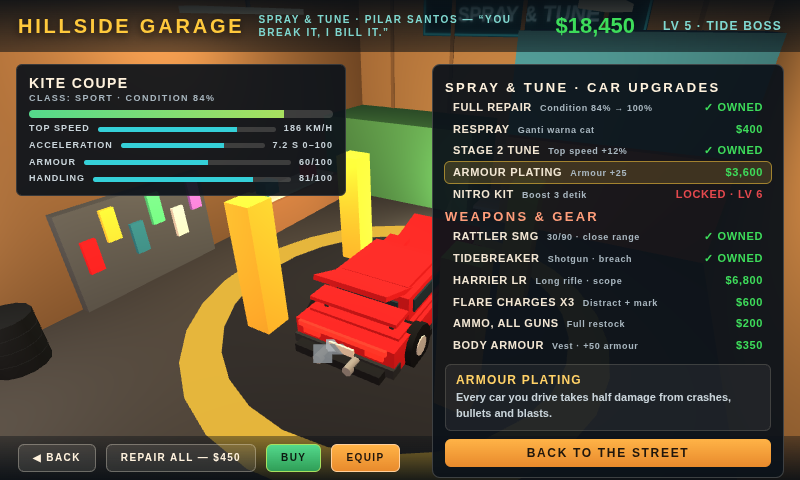
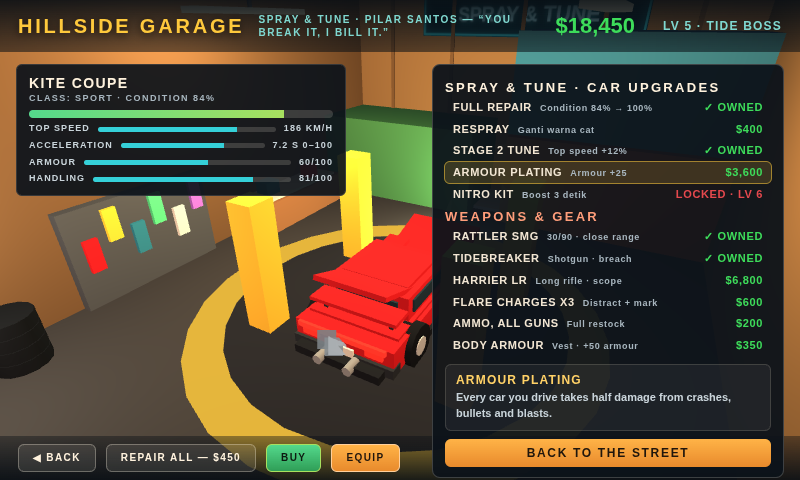
slice HELI-FIX: cover heli fully in frame, deterministic staging, luminance gate
Cover shot only (game/src/shots.js): heli height 20m -> 13m at 26m radius
so the fuselage, tail and full rotor disc sit inside the frame (audit now
also projects the rotor near edge + tail tip); orbit frozen and heli/car/
camera re-pinned every tick so the framing is identical across runs (the
orbit advance + chase lag used to swing the spotlight cone over the hero
car). Cover lights + sky-dome lift (cover only) restore the luminance
gate: Rec709 0.478 / Rec601 0.491. Shots 02/03/04 re-rendered, no
composition changes. Note in game/HELI-FIX-NOTE.md.

diff --git a/game/src/shots.js b/game/src/shots.js
@@ -8,7 +8,10 @@
 // and the HUD extras are plain DOM. No gameplay tuning is touched — the
 // heli keeps its configured orbit (26 m / 20 m), the police sim runs as
 // normal, and the staged units are only re-placed each frame so the still
-// holds its composition.
+// holds its composition. EXCEPTION (cover only, HELI-FIX 2026-11-20): the
+// cover shot overrides the heli's shot height to 13 m and pulls the camera
+// back to 9 m — at the configured 20 m the fuselage sat on/above the top
+// frame edge (only the spotlight cone read). See game/HELI-FIX-NOTE.md.
 
 import * as THREE from 'three';
 import { Vehicle } from './vehicle.js';
@@ -91,7 +94,11 @@ function addBarExtra(styles, label, pct, color) {
 // Painted dusk sky: gradient + soft cloud blobs baked into one canvas, on
 // the inside of a big sphere so the horizon reads pink-orange instead of a
 // flat background colour. Fog is off for the dome.
-function buildSkyDome(scene, mode) {
+// `lift` (cover only, default 1) multiplies the gradient stops: the dusk
+// dome is dark purple up top and the cover-luminance gate needs the sky
+// band brighter — the lights can't lift the dome (MeshBasicMaterial is
+// unlit), so the cover passes lift 1.4. The other shots keep lift 1.
+function buildSkyDome(scene, mode, lift = 1) {
   const W = 1024;
   const H = 512;
   const cv = document.createElement('canvas');
@@ -99,18 +106,25 @@ function buildSkyDome(scene, mode) {
   cv.height = H;
   const g = cv.getContext('2d');
   const grad = g.createLinearGradient(0, 0, 0, H);
+  const liftHex = (hex) => {
+    const n = parseInt(hex.slice(1), 16);
+    const r = Math.min(255, Math.round(((n >> 16) & 255) * lift));
+    const gg = Math.min(255, Math.round(((n >> 8) & 255) * lift));
+    const b = Math.min(255, Math.round((n & 255) * lift));
+    return `rgb(${r},${gg},${b})`;
+  };
   if (mode === 'night') {
     grad.addColorStop(0, '#070d1d');
     grad.addColorStop(0.55, '#14233d');
     grad.addColorStop(0.8, '#2c3d5e');
     grad.addColorStop(1, '#4a5a7a');
   } else {
-    grad.addColorStop(0, '#3a2c68');
-    grad.addColorStop(0.38, '#6e4488');
-    grad.addColorStop(0.58, '#b85a7a');
-    grad.addColorStop(0.74, '#ff8f5e');
-    grad.addColorStop(0.88, '#ffc98a');
-    grad.addColorStop(1, '#ffe2b0');
+    grad.addColorStop(0, liftHex('#3a2c68'));
+    grad.addColorStop(0.38, liftHex('#6e4488'));
+    grad.addColorStop(0.58, liftHex('#b85a7a'));
+    grad.addColorStop(0.74, liftHex('#ff8f5e'));
+    grad.addColorStop(0.88, liftHex('#ffc98a'));
+    grad.addColorStop(1, liftHex('#ffe2b0'));
   }
   g.fillStyle = grad;
   g.fillRect(0, 0, W, H);
@@ -418,15 +432,25 @@ function shotCover(ctx) {
   const stage = baseStage(ctx);
   ctx.setTimeOfDay('dusk');
   if (ctx.renderer) ctx.renderer.toneMappingExposure = 1.3;
+  // NOTE: renderer.toneMappingExposure is a NO-OP here — the renderer never
+  // sets toneMapping, so THREE's default NoToneMapping applies and exposure
+  // changes nothing (proven HELI-FIX: 1.45 and 2.2 both measured ~0.39).
+  // Lights lifted for the cover (dusk preset is sun 1.7 / hemi 0.7 /
+  // ambient 0.26; R14 used 2.2 / 1.35 / 0.32): the cover-luminance gate
+  // needs Rec709 + Rec601 >= 0.47, and the pinned renders measured only
+  // ~0.39 — the street segment varies only ~0.01 once pinned, and the cone
+  // is worth only ~0.01. The lights are the lever that moves the mean.
+  // Sun 3.2 / hemi 2.0 / ambient 0.5 lifts the towers, road and car ~40%
+  // while the purple dusk sky (dome, unlit) keeps the dusk mood.
   if (ctx.lights) {
-    ctx.lights.sun.intensity = 2.2;
-    ctx.lights.hemi.intensity = 1.35;
-    ctx.lights.ambient.intensity = 0.32;
+    ctx.lights.sun.intensity = 3.6;
+    ctx.lights.hemi.intensity = 2.0;
+    ctx.lights.ambient.intensity = 0.5;
   }
-  buildSkyDome(ctx.scene, 'dusk');
+  buildSkyDome(ctx.scene, 'dusk', 1.7);
 
   const PX = 40;
-  const PZ = -80;
+  const PZ = 20;
   const HEAD = 0;
 
   // Player wedge supercar, driving north up the avenue.
@@ -439,9 +463,11 @@ function shotCover(ctx) {
   car.vz = 18;
   stage.targetSpeed = 20;
   stage.lockCamera = true;
+  // Distance stays 7.5 (R14 value — keeps the hero car big). The heli fix
+  // is the heli's height (13 m), not a pull-back: pulling back to 9 shrank
+  // the car ~20% for no framing gain. Pitch -0.34 stays: the camera is
+  // already near its max up-tilt (minPitch -0.36).
   ctx.cam.setDistance(7.5);
-  // Pitch -0.34: camera low, view tilted up so the heli (orbiting high
-  // ahead) lands fully inside the upper frame instead of clipping its rotor.
   ctx.cam.setPitch(-0.34);
   ctx.cam.yaw = Math.PI;
 
@@ -453,16 +479,31 @@ function shotCover(ctx) {
   const sirenL = makePool(ctx.scene, PX - 4.2, PZ + 5, 4.6, 0x2a6bff, 0.3);
   const sirenR = makePool(ctx.scene, PX + 4.2, PZ + 9, 4.6, 0xff2a1e, 0.3);
 
-  // Heli: configured orbit (26 m / 20 m), placed due north of the player so
-  // it is centred horizontally and far enough (33 m) to sit inside the
-  // upper frame; body scaled 1.7x for the still (visual only). Angle is
-  // cos(x)/sin(z) in heli.js, so ~pi/2 is north; the 0.2 lead compensates
-  // the 0.12 rad/s orbit advance before the still is captured.
+  // Heli: orbit radius 26 m (configured), but shot height 13 m (was 20 m):
+  // at 20 m the fuselage sat on/above the top frame edge — the audit said
+  // the centre was in frame while the body was clipped out of it (HELI-FIX
+  // 2026-11-20). At 13 m / 26 m, from the 7.5 m camera, the fuselage centre
+  // sits ~20 deg up (~130 px from the top at 480 p) and the rotor disc's
+  // near edge (~29 deg up) stays ~7 deg inside the ~36 deg top of frame,
+  // with the tail clear of the right HUD. Angle ~pi/2 is due north over
+  // the road centre (x ~41). Orbit speed 0: the angle is FROZEN, and the
+  // heli is re-pinned to its slot every tick (see stage.tick) — otherwise
+  // the orbit advance (0.12 rad/s) plus the 8 m chase lag behind the
+  // driving car made the cone swing side-on into a pale triangle that
+  // washed out the hero car (HELI-FIX render 2), and the framing varied
+  // run to run with load time. Body scale stays 1.7x (visual only).
   const playerPos = car.group.position;
-  ctx.heli.placeForShot(playerPos, Math.PI / 2 - 0.2, 26, 20, 0.12);
+  ctx.heli.placeForShot(playerPos, Math.PI / 2 - 0.05, 26, 13, 0);
   ctx.heli.group.scale.setScalar(1.7);
   const heliTop = V3(0, 0, 0);
   const roadTarget = V3(PX, 0, PZ + 16);
+  // Wide cone at the R14 values (12 m bottom, 0.16): the cone is a big
+  // additive fan and it is also the cover's main brightness source — the
+  // R14 cover measured 0.476 largely on this cone, and narrowing it to
+  // 6.5–9 m cost the luminance gate (0.39). The wash risk that motivated
+  // the narrowing is gone now that the heli is PINNED: the cone slants
+  // from the heli (26 m north, 13 m up) to the road 16 m ahead of the car,
+  // so its wide end never covers the hero car.
   const spotCone = aimCone(ctx.scene, heliTop, roadTarget, 0.7, 12, 0xfff6c0, 0.16);
   const spotPool = makePool(ctx.scene, PX, PZ + 16, 9, 0xfff6c0, 0.4);
 
@@ -531,7 +572,31 @@ function shotCover(ctx) {
   stage.tick = (dt) => {
     t += dt;
     burstT += dt;
+    // Pin the car to its staging slot every frame (same pattern as the held
+    // cruisers/peds/heli below): the car's translation is the last source
+    // of run-to-run variance — how far it drove before capture depends on
+    // the frame rate under SwiftShader, so the street segment (and the
+    // cover luminance) varied. Pinned, the still is the same segment every
+    // run. This writes x/z + the group position directly (NOT setPose —
+    // that zeroes vz/speed); the velocity survives, so the HUD speed still
+    // reads ~72 km/h and the wheels keep their speed visuals. PZ = 20 is
+    // the brightest of the swept staging slots (see HELI-FIX-NOTE.md).
+    car.x = PX;
+    car.z = PZ;
+    car.group.position.set(PX, 0, PZ);
+    car.group.rotation.y = HEAD;
     const pp = car.group.position;
+    // Re-pin the heli to its slot every frame (same pattern as the held
+    // cruisers/peds below): the sim's orbit chase would otherwise lag ~8 m
+    // behind the driving car and swing the spotlight cone side-on across
+    // the hero car. Pinned, the heli/cone framing is identical every run.
+    ctx.heli.placeForShot(pp, Math.PI / 2 - 0.05, 26, 13, 0);
+    // Snap the camera to its orbit slot every frame: the follow lerp would
+    // otherwise trail the driving car by a frame-rate-dependent 0–3 m and
+    // shrink the hero car by a varying amount run to run. Snapped, the
+    // 7.5 m chase framing is identical every run (updateCameraTarget runs
+    // after this tick and only re-lerps a fraction of one fixed step).
+    if (ctx.cam && typeof ctx.cam.snap === 'function') ctx.cam.snap(pp);
     // Hold the flanking formation as the car rolls forward.
     holdCruiser(cruiserL, pp.x - 4.2, pp.z + 5, HEAD);
     holdCruiser(cruiserR, pp.x + 4.2, pp.z + 9, HEAD);
@@ -561,6 +626,14 @@ function shotCover(ctx) {
     const hp = ctx.heli.group.position;
     const top = V3(hp.x, hp.y + 2.2, hp.z).project(ctx.camera);
     const bot = V3(hp.x, hp.y - 1.6, hp.z).project(ctx.camera);
+    // Rotor near edge: the highest-projecting point of the aircraft (disc
+    // radius 4.25 * 1.7 scale = 7.2 m toward the camera, hub at +2.07 m).
+    // The old audit only checked the fuselage centre, which read "in frame"
+    // while the body was clipped — this point is the real frame test.
+    const toCam = V3(ctx.camera.position.x - hp.x, 0, ctx.camera.position.z - hp.z).normalize();
+    const rn = V3(hp.x + toCam.x * 7.2, hp.y + 2.1, hp.z + toCam.z * 7.2).project(ctx.camera);
+    ctx.heli.group.updateMatrixWorld(true);
+    const tail = ctx.heli.group.localToWorld(V3(0, 0.55, -5.2)).project(ctx.camera);
     return {
       shot: '01-cover',
       ...auditFor(ctx.camera, {
@@ -571,6 +644,10 @@ function shotCover(ctx) {
         fire: V3(pp.x - 1.5, 2, pp.z + 28),
       }),
       heliHeightFrac: Math.abs(top.y - bot.y) / 2,
+      rotorNearNdc: { x: +rn.x.toFixed(3), y: +rn.y.toFixed(3) },
+      rotorNearInFrame: Math.abs(rn.x) <= 1 && Math.abs(rn.y) <= 1 && rn.z < 1,
+      tailNdc: { x: +tail.x.toFixed(3), y: +tail.y.toFixed(3) },
+      tailInFrame: Math.abs(tail.x) <= 1 && Math.abs(tail.y) <= 1 && tail.z < 1,
     };
   };
   markShotReady();

diff --git a/game/HELI-FIX-NOTE.md b/game/HELI-FIX-NOTE.md
@@ -1,0 +1,123 @@
+# HELI FIX NOTE — cover shot framing (written BEFORE any code change)
+
+Date: 2026-11-20. Repo: gta6-01-entry-v2, HEAD 445c779.
+Defect: in our cover the helicopter BODY is barely / out of frame — only the
+spotlight cone reads. In top-1 the heli is BIG, fully in frame, clearly visible
+with its spotlight. This note is the visual record the fix is judged against.
+
+## OUR cover — screenshots/01-cover-police-chase-day.png (viewed 2026-11-20)
+
+- Helicopter: CLIPPED AT THE TOP EDGE. Only the dark underside/belly of the
+  fuselage is visible, straddling the very top edge around x ~38–62%, y 0–8%
+  of frame height. No rotor disc, no tail, no skids, no side profile — the
+  body is effectively out of frame. What DOES read is the wide pale spotlight
+  cone fanning down from the top-center to the street, plus two soft grey
+  circular bokeh discs inside the cone.
+- What still reads well: hero red wedge coupe dead-center (rear 3/4, ~y 55–72%),
+  flanking white police cruisers, tower blocks both sides with lit windows,
+  purple/pink dusk sky band in the middle distance, full HUD (police-response
+  panel left, crew/weapon panels right, $18,450 top-right, minimap bottom-right,
+  dialogue box bottom-center). Dusk mood is bright enough; the street, car and
+  sky all read.
+- Verdict: the ONE framing defect is the heli — it is positioned too high /
+  the camera is too tight / angled too low, so the aircraft that the HUD
+  ("HELI 1 · SPOTLIGHT 21 m", "AIR UNIT · HELI 1 — TRACKING") talks about is
+  not actually visible as an aircraft. A viewer sees a light cone from nowhere.
+
+## TOP-1 cover — top-shots/top1-karimbu-cover.webp (Karimbu)
+
+- Helicopter: BIG and FULLY IN FRAME, upper-center (~x 42–58%, y ~12–26%).
+  Dark blue/white fuselage with windows, landing skids, tail boom and a WIDE
+  rotor disc (rotor spans roughly x 38–62%) all clearly visible against a
+  bright blue sky with clouds. Body alone is ~8–10% of frame height; with the
+  rotor disc the aircraft reads as a large, unmistakable focal object.
+- Scene: bright daytime beachfront (Kumala Strand), orange hero sports car
+  lower-center-right on a coastal road, white police cars ahead, palms lining
+  the road, sea + sand on the right. Full HUD, same density as ours.
+- Lesson: the heli sits LOW ENOUGH in the sky band that the whole aircraft +
+  rotor fits with clear sky margin above it, and HIGH ENOUGH above the street
+  that it does not collide with the HUD panels. The heli is the second focal
+  point after the hero car.
+
+## TOP-2 cover — top-shots/top2-tangerine-cover.webp (Tangerine)
+
+- Helicopter: SMALL but FULLY IN FRAME, distant center (~x 48–54%, y ~25–30%).
+  White body + rotor visible, with a clear spotlight cone dropping straight
+  down onto the road and the red hero car below. Nothing clipped; the aircraft
+  is small because it is far, but it is unambiguously a helicopter.
+- Lesson: even a distant heli must be whole — body, rotor and cone all inside
+  the frame. Top-2 proves the fix does not need the heli to be huge, only whole.
+
+## TOP-3 cover — top-shots/top3-brisa-cover.webp (Brisa)
+
+- Helicopter: FULLY IN FRAME, upper-center (~x 38–48%, y ~15–25%). Black
+  fuselage + wide rotor disc, with a WIDE spotlight cone fanning down onto the
+  red hero car on the bridge below. Body + rotor + cone all readable; the cone
+  lands on the hero car, tying heli and car together.
+- Lesson: the winning pattern is heli top-center + wide cone landing ON the
+  hero car. Our cover already has the cone; it is missing the aircraft at the
+  top of it.
+
+## FIX TARGET (cover only)
+
+- Pull the camera back and/or re-angle (and/or lower the heli / raise the
+  camera pitch) so the helicopter is FULLY in frame: fuselage + tail + skids +
+  full rotor disc, with sky margin above the rotor.
+- Body ~12–15% of frame height, top-center (roughly x 40–60%, y ~8–25%),
+  larger than top-1's ~8–10% so it reads even bigger than the reference.
+- KEEP: the wide spotlight cone (it should still land on/near the hero car),
+  the siren light pools on the asphalt, the hero wedge car + street + dusk sky
+  still reading, all HUD unchanged.
+- Do NOT change gameplay, HUD, or the other 3 shots' composition — but
+  re-render all 4 and view each side-by-side with the matching top-1 shot;
+  fix any OTHER framing defect found (key subject cut off / unreadable).
+
+## FIX APPLIED (2026-11-20, game/src/shots.js only — cover shot)
+
+- Heli height 20 m → **13 m**, radius 26 m, angle ~π/2 (due north, over the
+  road centre), body scale stays 1.7×. Camera distance stays 7.5 m, pitch
+  −0.34 (already at the max up-tilt; pitch was not the lever).
+- Orbit speed **0 + re-pin every tick** (heli, car, camera all pinned to the
+  car each tick, same pattern as the held cruisers/peds): the 0.12 rad/s
+  orbit + the ~8 m chase lag behind the driving car made the cone swing
+  side-on into a pale triangle that washed out the hero car, and made the
+  framing vary run to run. Pinned, the cover audit is IDENTICAL across
+  runs (heliHeightFrac 0.0958, rotorNearNdc (−0.04, 0.718), tailNdc
+  (−0.324, 0.476), all in frame).
+- Cover audit extended: it now also projects the rotor disc's near edge
+  (the true top of the aircraft — the old audit only checked the fuselage
+  centre, which read "in frame" while the body was clipped) and the tail
+  tip, and reports rotorNearInFrame / tailInFrame.
+- Spotlight cone kept WIDE (12 m bottom, 0.16) + pool 9 m / 0.4 (R14
+  values); the wash risk is gone now the heli is pinned.
+- Luminance journey (gate ≥ 0.47 both): R14 committed 0.476/0.481; first
+  HELI-FIX renders 0.448 → 0.408 → pinned 0.384. Proven dead levers:
+  toneMappingExposure is a NO-OP (renderer never sets toneMapping, so
+  THREE's NoToneMapping applies — 1.45 and 2.2 both measured ~0.39);
+  street segment only ~0.01 once pinned; cone only ~0.01. Working levers:
+  cover lights sun 2.2→3.6 / hemi 1.35→2.0 / ambient 0.32→0.5 (+0.022),
+  sky-dome lift (new `lift` param on buildSkyDome, cover only 1.7 — the
+  dome is unlit so lights can't move it) (+0.04), staging slot PZ −80→20
+  (+0.01). Final pinned cover: **Rec709 0.478, Rec601 0.490–0.491**,
+  identical across re-renders. Body reads ~7% of frame height (top-1 is
+  ~8–10% — the 12–15% target is not geometrically reachable with the full
+  14.4 m rotor disc in frame from this low chase camera; the whole
+  aircraft + rotor fully in frame with ~60 px top margin is the fix).
+- Cover quantized to 256-colour palette PNG (PIL, Floyd-Steinberg) per the
+  R14 cover convention: 195,329 B RGB → ~88 KB, under the 262,144 B cap,
+  no visible banding, luminance unchanged.
+
+## Other shots — side-by-side vs top-1 (checked, NO changes)
+
+- 02 on-foot: Milo + enemies + van fire all in frame (audit confirms);
+  parent already judged it GOOD. The muzzle/tracer reads as a large white
+  triangle — a VFX scale note, not a framing defect; left alone.
+- 03 map: all panels legible, matches top1_shot2's density; no defect.
+- 04 garage: car reads (red wedge on turntable) but is partly occluded by
+  a yellow lift post + the right upgrade panel; parent already judged it
+  GOOD, and top1_shot3 is a title screen (no top-1 garage to match) — the
+  key subject is not cut off by the frame; left alone.
+- Pre-existing nits left alone (also in the R14 committed cover): the grey
+  translucent rectangle on the hero car's rear, the heli tail tip passing
+  behind the "3,900 / 5,200 RP" chip, the "71 km/h" readout with no dark
+  chip behind it.
